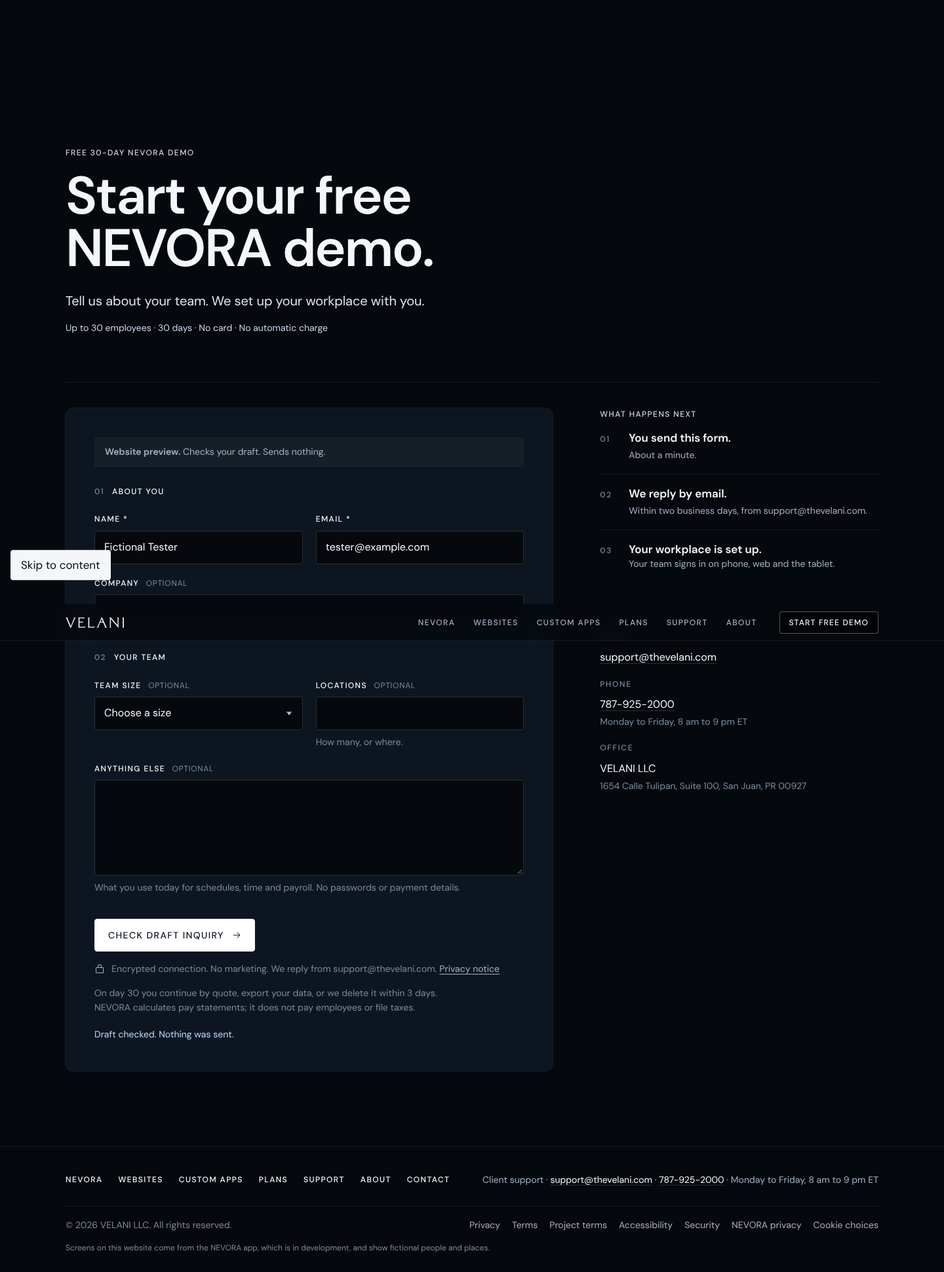
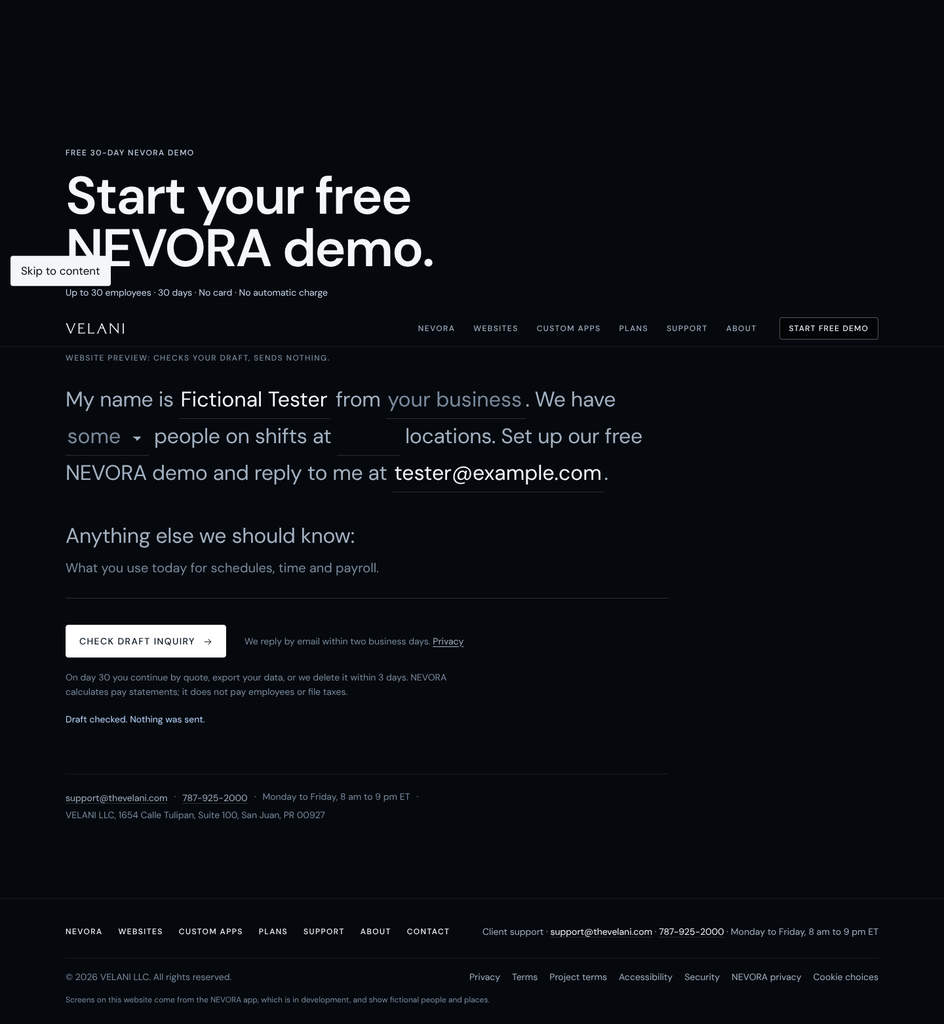
Contact page as one sentence with blanks; footer links match the header; clipping check skips visually hidden labels
- The inquiry reads "My name is ___ from ___. I need [a website]. Reply to me at ___." with the NEVORA and demo variants asking about the team; every blank is a labelled input that grows with its text
- Errors list under the sentence; one reply line under the button; support facts on one line
- New "website" topic value in the inquiry validator
- Evidence for all suites in evidence/contact-20261103

Claude-Session: https://claude.ai/code/session_01N2UNZFH9qfA238F2Wh9CKk

diff --git a/public/assets/velani.css b/public/assets/velani.css
@@ -372,66 +372,54 @@ html:has(main > .hpanel){scroll-padding-top:56px}
  .doc-body section>*:not(i){grid-column:1}
 }
 
-/* Contact: the form on the left in two numbered groups, what happens next on the right */
-.contact{padding-bottom:var(--s2)}
-.contact-grid{display:grid;grid-template-columns:minmax(0,7fr) minmax(0,4fr);gap:48px 72px;align-items:start;padding-top:40px;background:linear-gradient(var(--line),var(--line)) var(--pad) 0/calc(100% - var(--pad)*2) 1px no-repeat}
-.contact-aside{display:flex;flex-direction:column;color:var(--text-2)}
-.contact-aside .hkick{margin-bottom:8px}
-.next{list-style:none;margin:0;padding:0}
-.next li{display:grid;grid-template-columns:32px minmax(0,1fr);gap:4px 12px;padding:18px 0;border-top:1px solid var(--line)}
-.next li:first-child{border-top:0;padding-top:8px}
-.next i{grid-row:1/span 2;padding-top:.3em;font-style:normal;font-size:0.75rem;font-weight:500;letter-spacing:.14em;text-transform:uppercase;color:var(--text-3)}
-.next b{display:block;font-size:1.0625rem;font-weight:600;line-height:1.35;color:var(--text)}
-.next span{display:block;font-size:0.875rem;line-height:1.5;color:var(--text-2)}
-.spec.cfacts{grid-template-columns:1fr;gap:20px;margin-top:40px;padding-top:28px;border-top:1px solid var(--line)}
-.spec.cfacts dd{font-size:1rem}
-.spec.cfacts small{display:block;margin-top:4px;font-size:0.875rem;color:var(--text-3)}
-.panel{background:var(--panel);border-radius:var(--r2);padding:clamp(24px,3.4vw,44px);box-shadow:0 0 0 1px var(--line)}
-.panel .t3{margin-bottom:12px}
-.panel>p{color:var(--text-2)}
-.panel .acts{margin-top:28px}
-@media(max-width:833px){.contact-grid{grid-template-columns:1fr;padding-top:28px}.contact-aside{padding-top:8px}}
-
-/* Inquiry form */
-.inquiry-form fieldset{border:0;margin:0;padding:0;min-width:0;display:flex;flex-direction:column;gap:36px}
-.fgroup{display:flex;flex-direction:column;gap:20px}
-.fstep{display:flex;align-items:baseline;gap:12px;margin:0 0 4px;font-size:0.75rem;font-weight:500;letter-spacing:.12em;text-transform:uppercase;color:var(--text)}
-.fstep i{font-style:normal;color:var(--text-3)}
-.fsend{display:flex;flex-direction:column;gap:16px}
-.fsafe{display:flex;gap:10px;align-items:flex-start;margin:0;font-size:0.875rem;line-height:1.5;color:var(--text-3)}
-.fsafe .icon{flex:none;margin-top:3px;font-size:1rem;color:var(--text-2)}
-.fsafe a{color:var(--text-2);text-decoration:underline;text-underline-offset:3px}
-.fsend .fine{margin-top:0;max-width:40em}
-.form-row{display:grid;grid-template-columns:1fr 1fr;gap:20px}
-.field{display:flex;flex-direction:column;gap:8px}
-.field label{font-size:0.75rem;font-weight:500;letter-spacing:.12em;text-transform:uppercase;color:var(--text)}
-.optional{font-weight:400;color:var(--text-3);margin-left:6px;letter-spacing:.06em}
-.field input,.field select,.field textarea{font:inherit;font-size:1rem;color:var(--text);background:var(--bg);border:1px solid var(--line-2);border-radius:var(--r);min-height:50px;padding:12px 14px;width:100%;transition:border-color .2s,box-shadow .2s}
-.field select{appearance:none;-webkit-appearance:none;background-image:linear-gradient(45deg,transparent 50%,var(--text-2) 50%),linear-gradient(135deg,var(--text-2) 50%,transparent 50%);background-position:calc(100% - 20px) 50%,calc(100% - 15px) 50%;background-size:5px 5px;background-repeat:no-repeat;padding-right:40px}
-.field textarea{min-height:132px;resize:vertical;line-height:1.5}
-@media(hover:hover){.field input:hover,.field select:hover,.field textarea:hover{border-color:rgba(255,255,255,.28)}}
-.field input:focus-visible,.field select:focus-visible,.field textarea:focus-visible{outline:none;border-color:var(--text);box-shadow:0 0 0 3px rgba(244,246,249,.14)}
-.field [aria-invalid="true"]{border-color:#ff9b8f}
-.field-error{font-size:0.875rem;color:#ffb3a9;min-height:0}
+/* Contact: the inquiry is one sentence with blanks, set in display type; no card, no columns */
+.contact{padding:8px 0 var(--s2)}
+.inquiry-form,.contact-aside{max-width:920px}
+.inquiry-form fieldset{border:0;margin:0;padding:0;min-width:0;display:block}
+.brief{position:relative;margin:0;font-size:clamp(1.5rem,2.4vw,2rem);line-height:1.65;letter-spacing:-.01em;color:var(--text-2);text-wrap:pretty}
+.brief input,.brief select,.brief-m textarea{font:inherit;color:var(--text);background:none;border:0;border-bottom:1px solid var(--line-2);border-radius:0;padding:0 .08em .06em;margin:0;vertical-align:baseline;transition:border-color .15s,box-shadow .15s;field-sizing:content}
+.brief input{min-width:3em;max-width:100%}
+.brief input::placeholder{color:var(--text-3);opacity:1}
+.brief select{appearance:none;-webkit-appearance:none;padding-right:1.15em;cursor:pointer;background-image:linear-gradient(45deg,transparent 50%,var(--text-2) 50%),linear-gradient(135deg,var(--text-2) 50%,transparent 50%);background-position:calc(100% - .55em) 55%,calc(100% - .35em) 55%;background-size:.2em .2em;background-repeat:no-repeat}
+.brief select:has(option[value=""]:checked){color:var(--text-3)}
+.brief input:focus-visible,.brief select:focus-visible,.brief-m textarea:focus-visible{outline:none;border-color:var(--text);box-shadow:0 1px 0 var(--text)}
+.brief input[aria-invalid="true"],.brief select[aria-invalid="true"],.brief-m textarea[aria-invalid="true"]{border-color:#ff9b8f;box-shadow:0 1px 0 #ff9b8f}
+.brief-ruler{position:absolute;left:0;top:0;visibility:hidden;white-space:pre;pointer-events:none;padding:0 .08em}
+.brief-m{margin-top:40px}
+.brief-l{display:block;margin-bottom:6px;font-size:clamp(1.5rem,2.4vw,2rem);line-height:1.65;letter-spacing:-.01em;color:var(--text-2)}
+.brief-m textarea{display:block;width:100%;min-height:64px;resize:none;font-size:1.25rem;line-height:1.55;padding:.1em 0 .35em;overflow:hidden}
+.brief-m textarea::placeholder{color:var(--text-3);opacity:1}
+.ferrs{margin-top:20px}
+.ferrs:has(.field-error:not(:empty)){margin-bottom:-8px}
+.field-error{font-size:0.875rem;line-height:1.5;color:#ffb3a9;margin:0}
 .field-error:empty{display:none}
-.field-help,.form-privacy{font-size:0.875rem;color:var(--text-3)}
-.form-legal,.form-legal p{margin:16px 0 0;font-size:0.8125rem;line-height:1.5;color:var(--text-3)}.form-legal p{margin:0}.form-legal a{color:var(--text-2);text-decoration:underline;text-underline-offset:3px}.form-privacy a{color:var(--text-2);text-decoration:underline;text-underline-offset:3px}
-.inquiry-form .pill{align-self:flex-start;cursor:pointer}
-.inquiry-form .pill:disabled{opacity:.6;cursor:default}
+.send{display:flex;flex-wrap:wrap;align-items:center;gap:16px 28px;margin-top:40px}
+.send .pill{cursor:pointer}
+.send .pill:disabled{opacity:.6;cursor:default}
+.send-note{margin:0;font-size:0.875rem;color:var(--text-3)}
+.send-note a{color:var(--text-2);text-decoration:underline;text-underline-offset:3px}
+.contact .fine{max-width:46em}
+.form-legal,.form-legal p{margin:16px 0 0;font-size:0.75rem;line-height:1.5;color:var(--text-3)}.form-legal p{margin:0}.form-legal a{color:var(--text-2);text-decoration:underline;text-underline-offset:3px}
 .form-status{margin-top:20px;font-size:0.875rem;color:var(--text-2)}
 .form-status:empty{display:none}
 .form-status[data-state="invalid"],.form-status[role="alert"]{color:#ffb3a9}
 .form-status[data-state="accepted"],.form-status[data-state="preview"]{color:var(--accent)}
-.note{font-size:0.875rem;color:var(--text-3);padding:12px 16px;border-radius:var(--r);background:rgba(255,255,255,.04);margin-bottom:28px}
-.note strong{color:var(--text-2);font-weight:600}
+.note{margin:0 0 28px;font-size:0.75rem;font-weight:500;letter-spacing:.12em;text-transform:uppercase;color:var(--text-3)}
+.contact-aside{display:flex;flex-wrap:wrap;gap:4px 10px;margin:72px 0 0;padding-top:24px;border-top:1px solid var(--line);font-size:0.875rem;color:var(--text-3)}
+.contact-aside a{display:inline-block;min-height:24px;line-height:24px;color:var(--text-2);text-decoration:underline;text-decoration-color:var(--line-2);text-underline-offset:3px}
+.panel{background:var(--panel);border-radius:var(--r2);padding:clamp(24px,3.4vw,44px);box-shadow:0 0 0 1px var(--line)}
+.panel .t3{margin-bottom:12px}
+.panel>p{color:var(--text-2)}
+.panel .acts{margin-top:28px}
+.field-help.mail{margin-top:16px;font-size:0.875rem;color:var(--text-3)}
 @media(max-width:600px){
- .form-row{grid-template-columns:1fr}
- .contact .panel{background:none;box-shadow:none;padding:0;border-radius:0}
- .contact-grid{padding-top:24px;gap:40px}
- .field input,.field select,.field textarea{background:var(--panel)}
- .inquiry-form fieldset{gap:32px}
- .note{margin-bottom:24px}
- .form-legal,.form-legal p{font-size:0.75rem}
+ .brief,.brief-l{font-size:1.375rem;line-height:1.7}
+ .brief-m{margin-top:32px}
+ .brief-m textarea{font-size:1.125rem}
+ .send{margin-top:32px}
+ .contact-aside{display:block;margin-top:56px}
+ .contact-aside span:empty,.contact-aside span:not(:last-child):nth-child(even){display:none}
+ .contact-aside>*,.contact-aside a{display:block}
 }
 
 /* Cookie choices */
@@ -459,12 +447,11 @@ html:has(main > .hpanel){scroll-padding-top:56px}
 /* Phones: the dialog scrolls, and its actions stay in reach at the bottom */
 @media(max-width:600px){.cookie-dialog{padding:20px}.cookie-option{padding:12px 0}.cookie-actions{display:grid;grid-template-columns:1fr 1fr;gap:10px;position:sticky;bottom:0;margin:12px -20px -20px;padding:12px 20px 20px;background:var(--panel)}.cookie-actions .pill{min-width:0;padding:0 10px;font-size:0.6875rem;white-space:normal}.cookie-actions .pill:last-child{grid-column:1/-1}}
 
-.field[hidden],.form-row[hidden]{display:none}
+.field[hidden],.form-row[hidden],[data-nevora-fields][hidden]{display:none}
 /* NEVORA enquiry variant: the boot script adds .ask-nevora before paint, so nothing changes after the page shows */
 .ask-nevora .v-d,html:not(.ask-nevora) .v-n,html:not(.ask-demo) .v-m,.ask-demo .v-n:not(.v-nm){display:none}
-.ask-nevora .form-row[data-nevora-fields]{display:grid}
+.ask-nevora [data-nevora-fields]{display:inline}
 .ask-nevora .field-topic{display:none}
-.ask-nevora .row-topic{grid-template-columns:1fr}
 
 /* Try the time clock: a working copy of the NEVORA PIN screen. Light surface, like the real tablet. */
 .kio-note{display:inline-flex;flex-wrap:wrap;gap:4px 6px;margin-top:var(--s1);padding:10px 16px;border-radius:var(--r);background:var(--panel);box-shadow:0 0 0 1px var(--line);font-size:0.875rem;line-height:1.4;color:var(--text-2)}

diff --git a/src/night/pages.css b/src/night/pages.css
@@ -138,66 +138,54 @@
  .doc-body section>*:not(i){grid-column:1}
 }
 
-/* Contact: the form on the left in two numbered groups, what happens next on the right */
-.contact{padding-bottom:var(--s2)}
-.contact-grid{display:grid;grid-template-columns:minmax(0,7fr) minmax(0,4fr);gap:48px 72px;align-items:start;padding-top:40px;background:linear-gradient(var(--line),var(--line)) var(--pad) 0/calc(100% - var(--pad)*2) 1px no-repeat}
-.contact-aside{display:flex;flex-direction:column;color:var(--text-2)}
-.contact-aside .hkick{margin-bottom:8px}
-.next{list-style:none;margin:0;padding:0}
-.next li{display:grid;grid-template-columns:32px minmax(0,1fr);gap:4px 12px;padding:18px 0;border-top:1px solid var(--line)}
-.next li:first-child{border-top:0;padding-top:8px}
-.next i{grid-row:1/span 2;padding-top:.3em;font-style:normal;font-size:0.75rem;font-weight:500;letter-spacing:.14em;text-transform:uppercase;color:var(--text-3)}
-.next b{display:block;font-size:1.0625rem;font-weight:600;line-height:1.35;color:var(--text)}
-.next span{display:block;font-size:0.875rem;line-height:1.5;color:var(--text-2)}
-.spec.cfacts{grid-template-columns:1fr;gap:20px;margin-top:40px;padding-top:28px;border-top:1px solid var(--line)}
-.spec.cfacts dd{font-size:1rem}
-.spec.cfacts small{display:block;margin-top:4px;font-size:0.875rem;color:var(--text-3)}
-.panel{background:var(--panel);border-radius:var(--r2);padding:clamp(24px,3.4vw,44px);box-shadow:0 0 0 1px var(--line)}
-.panel .t3{margin-bottom:12px}
-.panel>p{color:var(--text-2)}
-.panel .acts{margin-top:28px}
-@media(max-width:833px){.contact-grid{grid-template-columns:1fr;padding-top:28px}.contact-aside{padding-top:8px}}
-
-/* Inquiry form */
-.inquiry-form fieldset{border:0;margin:0;padding:0;min-width:0;display:flex;flex-direction:column;gap:36px}
-.fgroup{display:flex;flex-direction:column;gap:20px}
-.fstep{display:flex;align-items:baseline;gap:12px;margin:0 0 4px;font-size:0.75rem;font-weight:500;letter-spacing:.12em;text-transform:uppercase;color:var(--text)}
-.fstep i{font-style:normal;color:var(--text-3)}
-.fsend{display:flex;flex-direction:column;gap:16px}
-.fsafe{display:flex;gap:10px;align-items:flex-start;margin:0;font-size:0.875rem;line-height:1.5;color:var(--text-3)}
-.fsafe .icon{flex:none;margin-top:3px;font-size:1rem;color:var(--text-2)}
-.fsafe a{color:var(--text-2);text-decoration:underline;text-underline-offset:3px}
-.fsend .fine{margin-top:0;max-width:40em}
-.form-row{display:grid;grid-template-columns:1fr 1fr;gap:20px}
-.field{display:flex;flex-direction:column;gap:8px}
-.field label{font-size:0.75rem;font-weight:500;letter-spacing:.12em;text-transform:uppercase;color:var(--text)}
-.optional{font-weight:400;color:var(--text-3);margin-left:6px;letter-spacing:.06em}
-.field input,.field select,.field textarea{font:inherit;font-size:1rem;color:var(--text);background:var(--bg);border:1px solid var(--line-2);border-radius:var(--r);min-height:50px;padding:12px 14px;width:100%;transition:border-color .2s,box-shadow .2s}
-.field select{appearance:none;-webkit-appearance:none;background-image:linear-gradient(45deg,transparent 50%,var(--text-2) 50%),linear-gradient(135deg,var(--text-2) 50%,transparent 50%);background-position:calc(100% - 20px) 50%,calc(100% - 15px) 50%;background-size:5px 5px;background-repeat:no-repeat;padding-right:40px}
-.field textarea{min-height:132px;resize:vertical;line-height:1.5}
-@media(hover:hover){.field input:hover,.field select:hover,.field textarea:hover{border-color:rgba(255,255,255,.28)}}
-.field input:focus-visible,.field select:focus-visible,.field textarea:focus-visible{outline:none;border-color:var(--text);box-shadow:0 0 0 3px rgba(244,246,249,.14)}
-.field [aria-invalid="true"]{border-color:#ff9b8f}
-.field-error{font-size:0.875rem;color:#ffb3a9;min-height:0}
+/* Contact: the inquiry is one sentence with blanks, set in display type; no card, no columns */
+.contact{padding:8px 0 var(--s2)}
+.inquiry-form,.contact-aside{max-width:920px}
+.inquiry-form fieldset{border:0;margin:0;padding:0;min-width:0;display:block}
+.brief{position:relative;margin:0;font-size:clamp(1.5rem,2.4vw,2rem);line-height:1.65;letter-spacing:-.01em;color:var(--text-2);text-wrap:pretty}
+.brief input,.brief select,.brief-m textarea{font:inherit;color:var(--text);background:none;border:0;border-bottom:1px solid var(--line-2);border-radius:0;padding:0 .08em .06em;margin:0;vertical-align:baseline;transition:border-color .15s,box-shadow .15s;field-sizing:content}
+.brief input{min-width:3em;max-width:100%}
+.brief input::placeholder{color:var(--text-3);opacity:1}
+.brief select{appearance:none;-webkit-appearance:none;padding-right:1.15em;cursor:pointer;background-image:linear-gradient(45deg,transparent 50%,var(--text-2) 50%),linear-gradient(135deg,var(--text-2) 50%,transparent 50%);background-position:calc(100% - .55em) 55%,calc(100% - .35em) 55%;background-size:.2em .2em;background-repeat:no-repeat}
+.brief select:has(option[value=""]:checked){color:var(--text-3)}
+.brief input:focus-visible,.brief select:focus-visible,.brief-m textarea:focus-visible{outline:none;border-color:var(--text);box-shadow:0 1px 0 var(--text)}
+.brief input[aria-invalid="true"],.brief select[aria-invalid="true"],.brief-m textarea[aria-invalid="true"]{border-color:#ff9b8f;box-shadow:0 1px 0 #ff9b8f}
+.brief-ruler{position:absolute;left:0;top:0;visibility:hidden;white-space:pre;pointer-events:none;padding:0 .08em}
+.brief-m{margin-top:40px}
+.brief-l{display:block;margin-bottom:6px;font-size:clamp(1.5rem,2.4vw,2rem);line-height:1.65;letter-spacing:-.01em;color:var(--text-2)}
+.brief-m textarea{display:block;width:100%;min-height:64px;resize:none;font-size:1.25rem;line-height:1.55;padding:.1em 0 .35em;overflow:hidden}
+.brief-m textarea::placeholder{color:var(--text-3);opacity:1}
+.ferrs{margin-top:20px}
+.ferrs:has(.field-error:not(:empty)){margin-bottom:-8px}
+.field-error{font-size:0.875rem;line-height:1.5;color:#ffb3a9;margin:0}
 .field-error:empty{display:none}
-.field-help,.form-privacy{font-size:0.875rem;color:var(--text-3)}
-.form-legal,.form-legal p{margin:16px 0 0;font-size:0.8125rem;line-height:1.5;color:var(--text-3)}.form-legal p{margin:0}.form-legal a{color:var(--text-2);text-decoration:underline;text-underline-offset:3px}.form-privacy a{color:var(--text-2);text-decoration:underline;text-underline-offset:3px}
-.inquiry-form .pill{align-self:flex-start;cursor:pointer}
-.inquiry-form .pill:disabled{opacity:.6;cursor:default}
+.send{display:flex;flex-wrap:wrap;align-items:center;gap:16px 28px;margin-top:40px}
+.send .pill{cursor:pointer}
+.send .pill:disabled{opacity:.6;cursor:default}
+.send-note{margin:0;font-size:0.875rem;color:var(--text-3)}
+.send-note a{color:var(--text-2);text-decoration:underline;text-underline-offset:3px}
+.contact .fine{max-width:46em}
+.form-legal,.form-legal p{margin:16px 0 0;font-size:0.75rem;line-height:1.5;color:var(--text-3)}.form-legal p{margin:0}.form-legal a{color:var(--text-2);text-decoration:underline;text-underline-offset:3px}
 .form-status{margin-top:20px;font-size:0.875rem;color:var(--text-2)}
 .form-status:empty{display:none}
 .form-status[data-state="invalid"],.form-status[role="alert"]{color:#ffb3a9}
 .form-status[data-state="accepted"],.form-status[data-state="preview"]{color:var(--accent)}
-.note{font-size:0.875rem;color:var(--text-3);padding:12px 16px;border-radius:var(--r);background:rgba(255,255,255,.04);margin-bottom:28px}
-.note strong{color:var(--text-2);font-weight:600}
+.note{margin:0 0 28px;font-size:0.75rem;font-weight:500;letter-spacing:.12em;text-transform:uppercase;color:var(--text-3)}
+.contact-aside{display:flex;flex-wrap:wrap;gap:4px 10px;margin:72px 0 0;padding-top:24px;border-top:1px solid var(--line);font-size:0.875rem;color:var(--text-3)}
+.contact-aside a{display:inline-block;min-height:24px;line-height:24px;color:var(--text-2);text-decoration:underline;text-decoration-color:var(--line-2);text-underline-offset:3px}
+.panel{background:var(--panel);border-radius:var(--r2);padding:clamp(24px,3.4vw,44px);box-shadow:0 0 0 1px var(--line)}
+.panel .t3{margin-bottom:12px}
+.panel>p{color:var(--text-2)}
+.panel .acts{margin-top:28px}
+.field-help.mail{margin-top:16px;font-size:0.875rem;color:var(--text-3)}
 @media(max-width:600px){
- .form-row{grid-template-columns:1fr}
- .contact .panel{background:none;box-shadow:none;padding:0;border-radius:0}
- .contact-grid{padding-top:24px;gap:40px}
- .field input,.field select,.field textarea{background:var(--panel)}
- .inquiry-form fieldset{gap:32px}
- .note{margin-bottom:24px}
- .form-legal,.form-legal p{font-size:0.75rem}
+ .brief,.brief-l{font-size:1.375rem;line-height:1.7}
+ .brief-m{margin-top:32px}
+ .brief-m textarea{font-size:1.125rem}
+ .send{margin-top:32px}
+ .contact-aside{display:block;margin-top:56px}
+ .contact-aside span:empty,.contact-aside span:not(:last-child):nth-child(even){display:none}
+ .contact-aside>*,.contact-aside a{display:block}
 }
 
 /* Cookie choices */
@@ -225,9 +213,8 @@
 /* Phones: the dialog scrolls, and its actions stay in reach at the bottom */
 @media(max-width:600px){.cookie-dialog{padding:20px}.cookie-option{padding:12px 0}.cookie-actions{display:grid;grid-template-columns:1fr 1fr;gap:10px;position:sticky;bottom:0;margin:12px -20px -20px;padding:12px 20px 20px;background:var(--panel)}.cookie-actions .pill{min-width:0;padding:0 10px;font-size:0.6875rem;white-space:normal}.cookie-actions .pill:last-child{grid-column:1/-1}}
 
-.field[hidden],.form-row[hidden]{display:none}
+.field[hidden],.form-row[hidden],[data-nevora-fields][hidden]{display:none}
 /* NEVORA enquiry variant: the boot script adds .ask-nevora before paint, so nothing changes after the page shows */
 .ask-nevora .v-d,html:not(.ask-nevora) .v-n,html:not(.ask-demo) .v-m,.ask-demo .v-n:not(.v-nm){display:none}
-.ask-nevora .form-row[data-nevora-fields]{display:grid}
+.ask-nevora [data-nevora-fields]{display:inline}
 .ask-nevora .field-topic{display:none}
-.ask-nevora .row-topic{grid-template-columns:1fr}

diff --git a/public/assets/velani.js b/public/assets/velani.js
@@ -9,7 +9,7 @@ if (form) {
   if (!status) { status = document.createElement('div'); status.className = 'form-status'; status.setAttribute('role', 'status'); status.tabIndex = -1; form.append(status); }
   const fields = Object.fromEntries(['name', 'email', 'company', 'message', 'interest', 'locations', 'team'].map(key => [key, form.querySelector('#inquiry-' + key)]));
   const topic = new URL(window.location.href).searchParams.get('interest');
-  if (['custom-software', 'nevora', 'nevora-demo', 'other'].includes(topic)) fields.interest.value = topic;
+  if (['website', 'custom-software', 'nevora', 'nevora-demo', 'other'].includes(topic)) fields.interest.value = topic;
   // Arriving from a NEVORA action: talk about the team, keep NEVORA as the topic without asking again
   // The page already shows the right wording (chosen before paint); drop the unused variant so screen readers and the heading label see one text
   const nevora = document.documentElement.classList.contains('ask-nevora');
@@ -19,6 +19,7 @@ if (form) {
   if (topic === 'nevora' || topic === 'nevora-demo') {
     document.title = (topic === 'nevora-demo' ? 'Free NEVORA demo' : 'NEVORA for your team') + ' · Velani';
     fields.message.required = false;
+    fields.message.placeholder = 'What you use today for schedules, time and payroll.';
   }
   const setBusy = busy => { submitButton.disabled = busy; form.setAttribute('aria-busy', String(busy)); };
   const messages = { checking: 'Checking your draft…', preview: 'Draft checked. Nothing was sent.', invalid: 'Check the highlighted fields.', sending: 'Sending inquiry…', accepted: 'Your inquiry was submitted.', failed: 'The inquiry was not accepted. Review the form before trying again.', uncertain: 'We could not confirm the submission. It may have been accepted. Check with support@thevelani.com before sending it again.', unavailable: 'Inquiry delivery is not available.' };
@@ -49,7 +50,16 @@ if (form) {
     await controller.submit(values);
   });
   fieldset.disabled = false;
-  fields.message.addEventListener('input', () => { fields.message.style.height = 'auto'; fields.message.style.height = Math.min(600, Math.max(150, fields.message.scrollHeight)) + 'px'; });
+  const minH = parseInt(fields.message.dataset.min || '150', 10);
+  fields.message.addEventListener('input', () => { fields.message.style.height = 'auto'; fields.message.style.height = Math.min(600, Math.max(minH, fields.message.scrollHeight)) + 'px'; });
+  // Blanks in the sentence grow with what is typed: measure the text in the same font and size the control to it
+  const brief = form.querySelector('.brief');
+  if (brief) {
+    const ruler = document.createElement('span'); ruler.className = 'brief-ruler'; ruler.setAttribute('aria-hidden', 'true'); brief.append(ruler);
+    const size = el => { const text = el.tagName === 'SELECT' ? (el.options[el.selectedIndex]?.text || '') : (el.value || el.placeholder || ''); ruler.textContent = text; const w = ruler.getBoundingClientRect().width; const cs = getComputedStyle(el); el.style.width = Math.max(el.tagName === 'SELECT' ? 0 : 3 * 16, w + parseFloat(cs.paddingLeft) + parseFloat(cs.paddingRight) + 2) + 'px'; };
+    for (const el of brief.querySelectorAll('input, select')) { size(el); el.addEventListener('input', () => size(el)); el.addEventListener('change', () => size(el)); }
+    if (document.fonts?.ready) document.fonts.ready.then(() => brief.querySelectorAll('input, select').forEach(size));
+  }
   window.addEventListener('pageshow', event => { if (event.persisted && mode === 'live' && form.getAttribute('aria-busy') === 'true') { setBusy(false); status.dataset.state = 'uncertain'; status.textContent = messages.uncertain; } });
 }
 const dialog = document.querySelector('#cookie-dialog');

diff --git a/public/assets/inquiry.js b/public/assets/inquiry.js
@@ -1,5 +1,5 @@
 const limits = { name: 120, email: 254, company: 160, message: 4000, locations: 120 };
-const interests = new Set(['', 'custom-software', 'nevora', 'nevora-demo', 'other']);
+const interests = new Set(['', 'website', 'custom-software', 'nevora', 'nevora-demo', 'other']);
 export function validateInquiry(fields = {}) {
   const errors = {}, values = {};
   for (const key of Object.keys(limits)) {

diff --git a/docs/handoffs/site-pass-2026-11-03.md b/docs/handoffs/site-pass-2026-11-03.md
@@ -105,3 +105,24 @@ To go live, Jose publishes two things together in admin: theme 193020428602 and 
 - **Right column**: "What happens next" in three numbered steps (send, reply by email within two business days, then a first conversation / your quote / your workplace is set up), then email, phone with hours, and the office. The old paragraph block is gone.
 - **Variant bug fixed**: two-text variants (`v(general, nevora)`) rendered nothing on the demo variant because the demo rule hid the NEVORA span; the span now carries `v-nm` and both the CSS and `velani.js` keep it.
 - Checks and captures: `evidence/contact-20261103/`. The theme upload of the four changed files was declined at the permission prompt; source is ready and the preview theme is unchanged for this part.
+
+## Contact page, third pass (Jose: "this looks AI and is slop")
+
+The two-column form with numbered groups, a "What happens next" column and a lock line was rejected. The 21st.dev catalog search for contact forms returned eight variations of that same card-and-fields pattern, which is the point: it is the default everyone ships.
+
+The replacement is one sentence the visitor completes, set in display type on the page itself:
+
+> My name is ___ from ___. I need [a website ▾]. Reply to me at ___.
+> What needs to work better: ___
+
+For a NEVORA quote or the free demo the sentence changes: "We have [some ▾] people on shifts at ___ locations. Set up our free NEVORA demo and reply to me at ___."
+
+- No card, no columns, no labels above fields, no icons. Every blank is a real input with a visually hidden label; blanks grow to what is typed (`field-sizing: content` with a measured fallback in `velani.js`). Selects read as words with a small caret. The message is one ruled line that grows.
+- Errors list under the sentence in plain words and the first blank gets focus; the blank's underline turns red.
+- Under the button: one line, "We reply by email within two business days. Privacy". The demo keeps its day-30 and payroll precision as small print. Support facts sit on one hairline-topped line at the end.
+- New topic value `website` accepted by `src/inquiry.mjs` (the sentence offers "a website" and "a custom app" separately).
+- Footer links now match the header (NEVORA · Websites · Custom apps · Plans · Support · About · Contact) and sit in two columns on phones.
+- `scripts/checks/clipping.mjs` now skips `.sr` elements, which are 1px by design.
+- The ui-ux-pro-max search database is not installed in this checkout (only its SKILL.md), so its guidance came from the priority table, not a database match.
+
+Checks on this build: unit 33/33, theme clean, acceptance 77/77, browser 51/51 (axe target-size on the support links fixed by a 24px line box), clipping 18/18, layout 19/19, scroll 8/8, privacy 4/4. Captures in `evidence/contact-20261103/captures/`.

diff --git a/evidence/contact-20261103/README.md b/evidence/contact-20261103/README.md
@@ -19,3 +19,5 @@ Captures in `captures/`: desktop (1440) and iPhone 13 for the general, quote and
 Second pass (Jose: "look how cheap this looks" on the live phone page): on phones the form loses its card and the fields become the surfaces; the footer becomes two aligned columns and its links now match the header (NEVORA · Websites · Custom apps · Plans · Support · About · Contact). All suites rerun on this build with the same results (acceptance 77/77, clipping 18/18, layout 19/19, scroll 8/8, privacy 4/4, browser 51/51, unit 33/33, theme clean). Captures in `captures/` are from this build.
 
 Theme upload: the first staging of the four changed files was declined at the permission prompt (themeFilesUpsert), so the preview theme kept the previous contact page at that point. Final build checksums: assets/velani.css 59c8a0a2b3ae4920f8432371ae5a93d1, assets/velani.js 995ff38a08e1ec8ff7c6c613a1053c97, sections/velani-contact.liquid 8e205ee66bc39b7a279da1253ab75ec8, layout/theme.liquid 77de86c47fdcab66e0451df0355f6a99. The second staging and upsert were accepted; all four read back with matching checksums (see `../precision-20261103/preview-theme-readback.txt`).
+
+Third pass (sentence form): captures replaced; all suites rerun with the same results. Theme files for upload: assets/velani.css 95503169ff86eacc1efed1283c423244, assets/velani.js 77b81844e6a81f0628857dd76c620649, sections/velani-contact.liquid 283577ec2692f37d36f65ef16768af32 (layout/theme.liquid unchanged since the previous upload).
